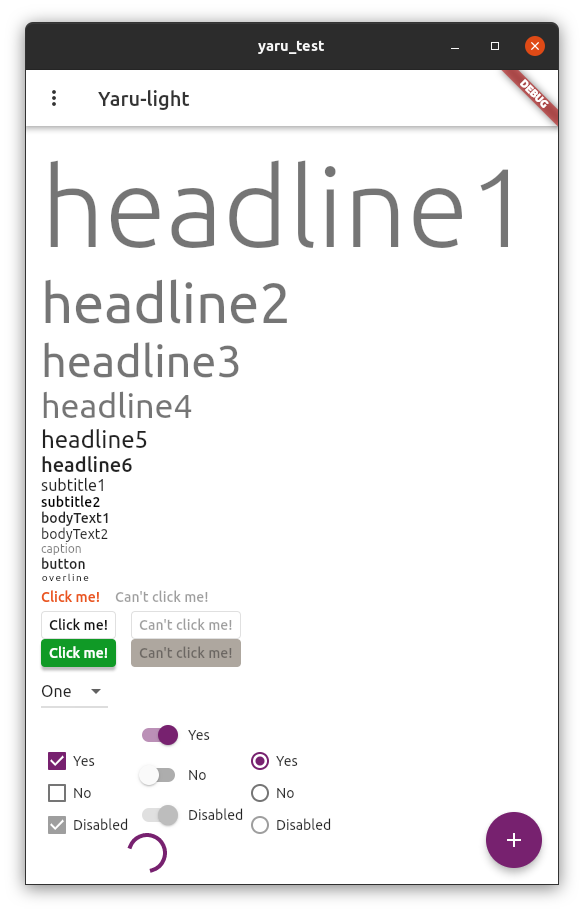
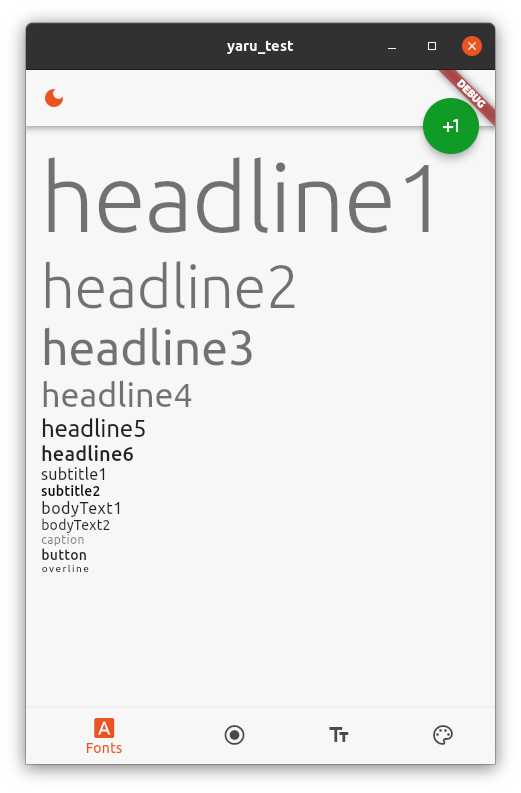
Reduce themes to 2 and update light/dark mode button (#63)
* Reduce themes to 2 and update light/dark mode button

- as the default theme is the same as the light theme, remove the default theme
- update the example to only toggle between dark and light mode
- update screenshots
- Reduce font size in colors view

Changed region(s): [[0.0307, 0.0, 0.9827, 0.9685], [0.3378, 0.7869, 0.3685, 0.8172]]

diff --git a/example/lib/view/home_page.dart b/example/lib/view/home_page.dart
@@ -29,7 +29,7 @@ class _HomePageState extends State<HomePage> {
   final textController = TextEditingController(
       text:
           'My code fails, I do not know why.\nMy code works, I do not know why.\nText in other scripts: Tamaziɣt Taqbaylit, 中文(简体), Čeština, Беларуская, Ελληνικά, עברית, Русский, བོད་ཡིག, Norsk bokmål.');
-  var themeName = 'Yaru';
+  var themeName = 'Yaru-light';
   final void Function(String themeName) themeChanged;
 
   int _selectedIndex = 0;
@@ -43,20 +43,21 @@ class _HomePageState extends State<HomePage> {
   Widget build(BuildContext context) {
     return Scaffold(
       appBar: AppBar(
-        title: Text(themeName),
-        leading: PopupMenuButton<String>(
-            onSelected: (value) {
-              setState(() {
-                themeName = value;
-                themeChanged(themeName);
-              });
-            },
-            itemBuilder: (context) => <PopupMenuItem<String>>[
-                  PopupMenuItem(value: 'Yaru', child: const Text('Standard')),
-                  PopupMenuItem(
-                      value: 'Yaru-light', child: const Text('Light')),
-                  PopupMenuItem(value: 'Yaru-dark', child: const Text('Dark')),
-                ]),
+        leading: TextButton(
+          child: Icon(themeName.contains('-light')
+              ? Icons.dark_mode
+              : Icons.light_mode),
+          onPressed: () => {
+            setState(() {
+              if (themeName.contains('-light')) {
+                themeName = 'Yaru-dark';
+              } else if (themeName.contains('-dark')) {
+                themeName = 'Yaru-light';
+              }
+              themeChanged(themeName);
+            })
+          },
+        ),
       ),
       body: Column(
         children: <Widget>[

diff --git a/example/lib/view/colors_view.dart b/example/lib/view/colors_view.dart
@@ -49,8 +49,7 @@ class ColorsView extends StatelessWidget {
           color: (_color.values.first[_shade]!.computeLuminance() > 0.4)
               ? Colors.black
               : Colors.white,
-          fontSize: 18.0,
-          fontWeight: FontWeight.w400,
+          fontSize: 10.0,
         );
     List<Widget> _colorItem = [];
     for (int i = 0; i < 5; i++) {
@@ -64,7 +63,7 @@ class ColorsView extends StatelessWidget {
             mainAxisAlignment: MainAxisAlignment.spaceBetween,
             children: [
               Expanded(
-                flex: 12,
+                flex: 10,
                 child: Text(
                   _color.keys.first + '[$_shade]',
                   style: _textStyle(_shade),

diff --git a/example/lib/main.dart b/example/lib/main.dart
@@ -12,7 +12,7 @@ class MyApp extends StatefulWidget {
 }
 
 class _MyAppState extends State<MyApp> {
-  var theme = yaru.theme;
+  var theme = yaru.lightTheme;
 
   @override
   Widget build(BuildContext context) {
@@ -21,9 +21,7 @@ class _MyAppState extends State<MyApp> {
       theme: theme,
       home: HomePage(
           themeChanged: (themeName) => setState(() {
-                if (themeName == 'Yaru') {
-                  theme = yaru.theme;
-                } else if (themeName == 'Yaru-light') {
+                if (themeName == 'Yaru-light') {
                   theme = yaru.lightTheme;
                 } else if (themeName == 'Yaru-dark') {
                   theme = yaru.darkTheme;

diff --git a/lib/src/theme.dart b/lib/src/theme.dart
@@ -80,7 +80,7 @@ final _appBarDarkTheme = AppBarTheme(
   color: yaru.Colors.inkstone,
 );
 
-final theme = ThemeData(
+final lightTheme = ThemeData(
   brightness: Brightness.light,
   primaryColor: _lightColorScheme.primary,
   primaryColorBrightness:
@@ -113,8 +113,6 @@ final theme = ThemeData(
     unselectedItemColor: _lightColorScheme.onSurface.withOpacity(0.7),
   ),
 );
-
-final lightTheme = theme;
 
 final darkTheme = ThemeData(
   brightness: Brightness.dark,
